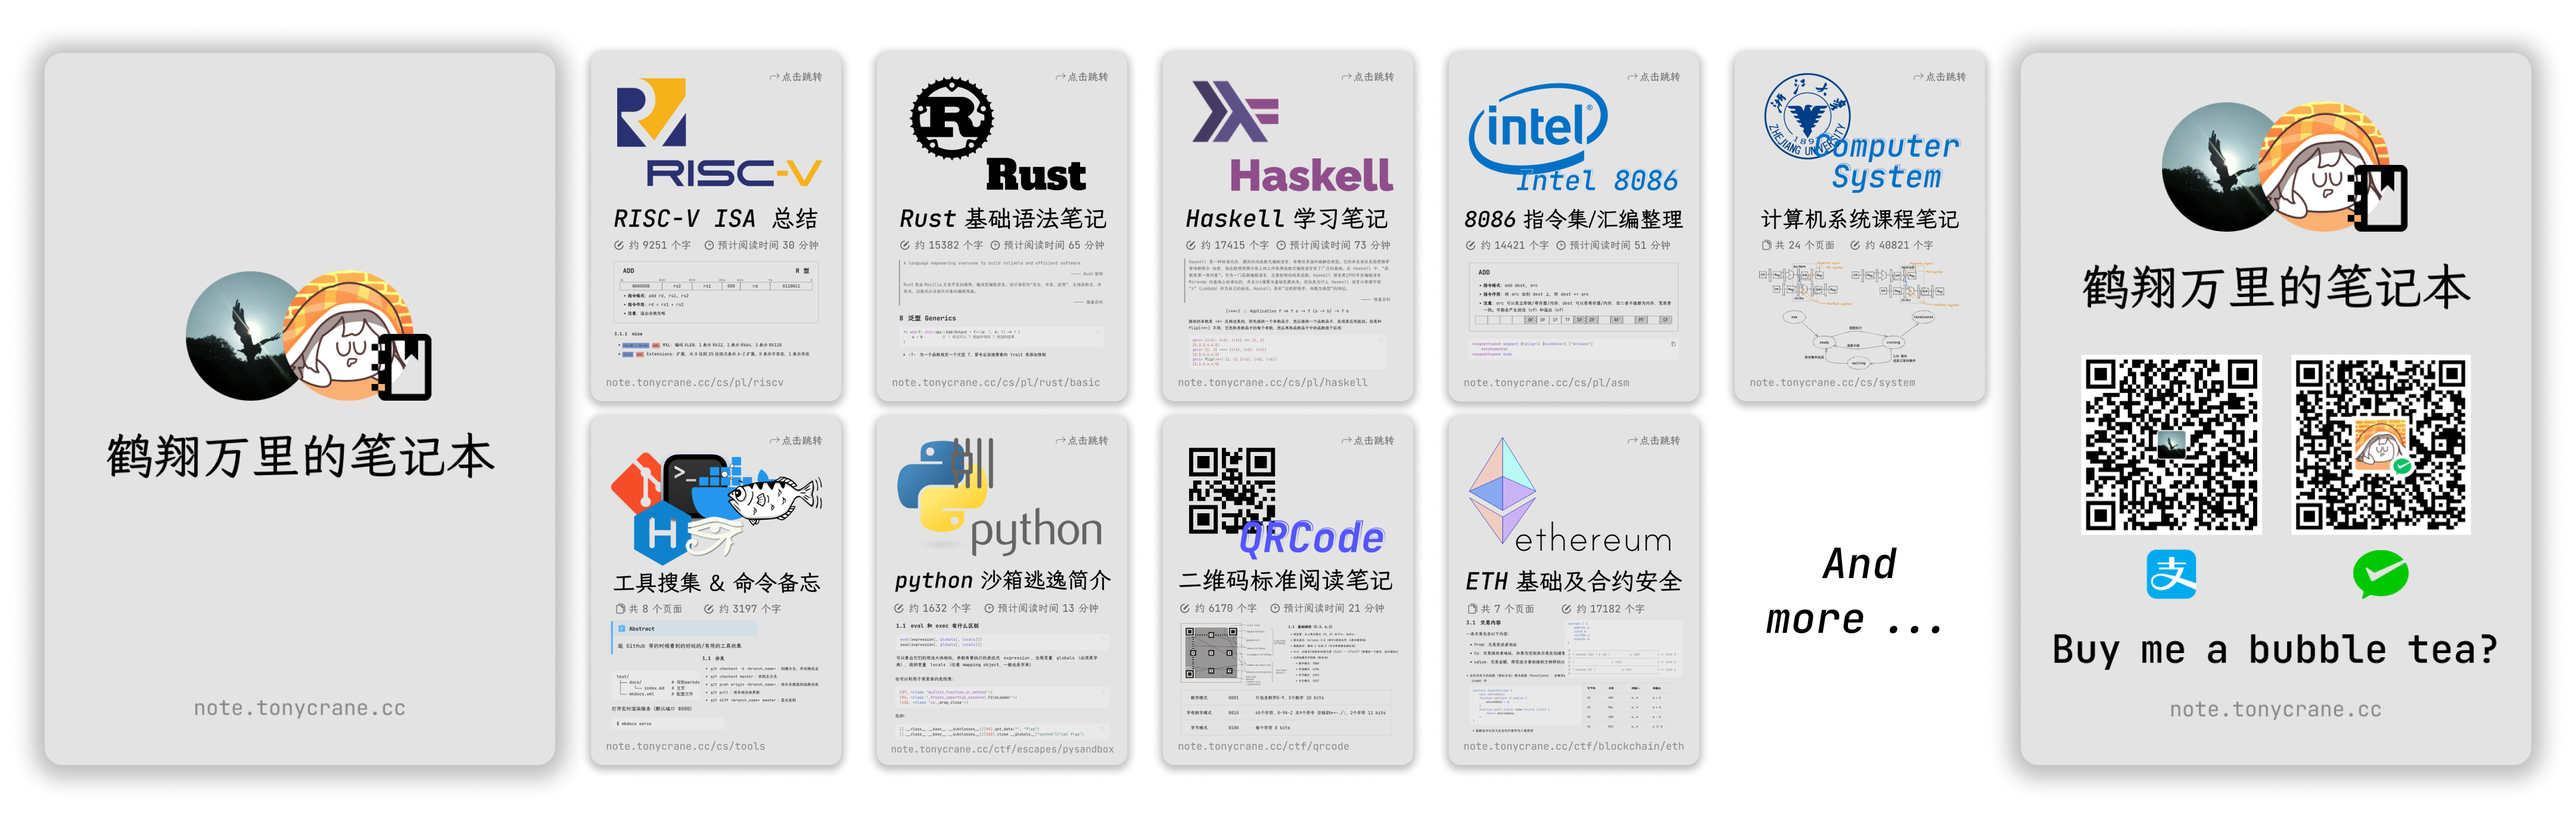
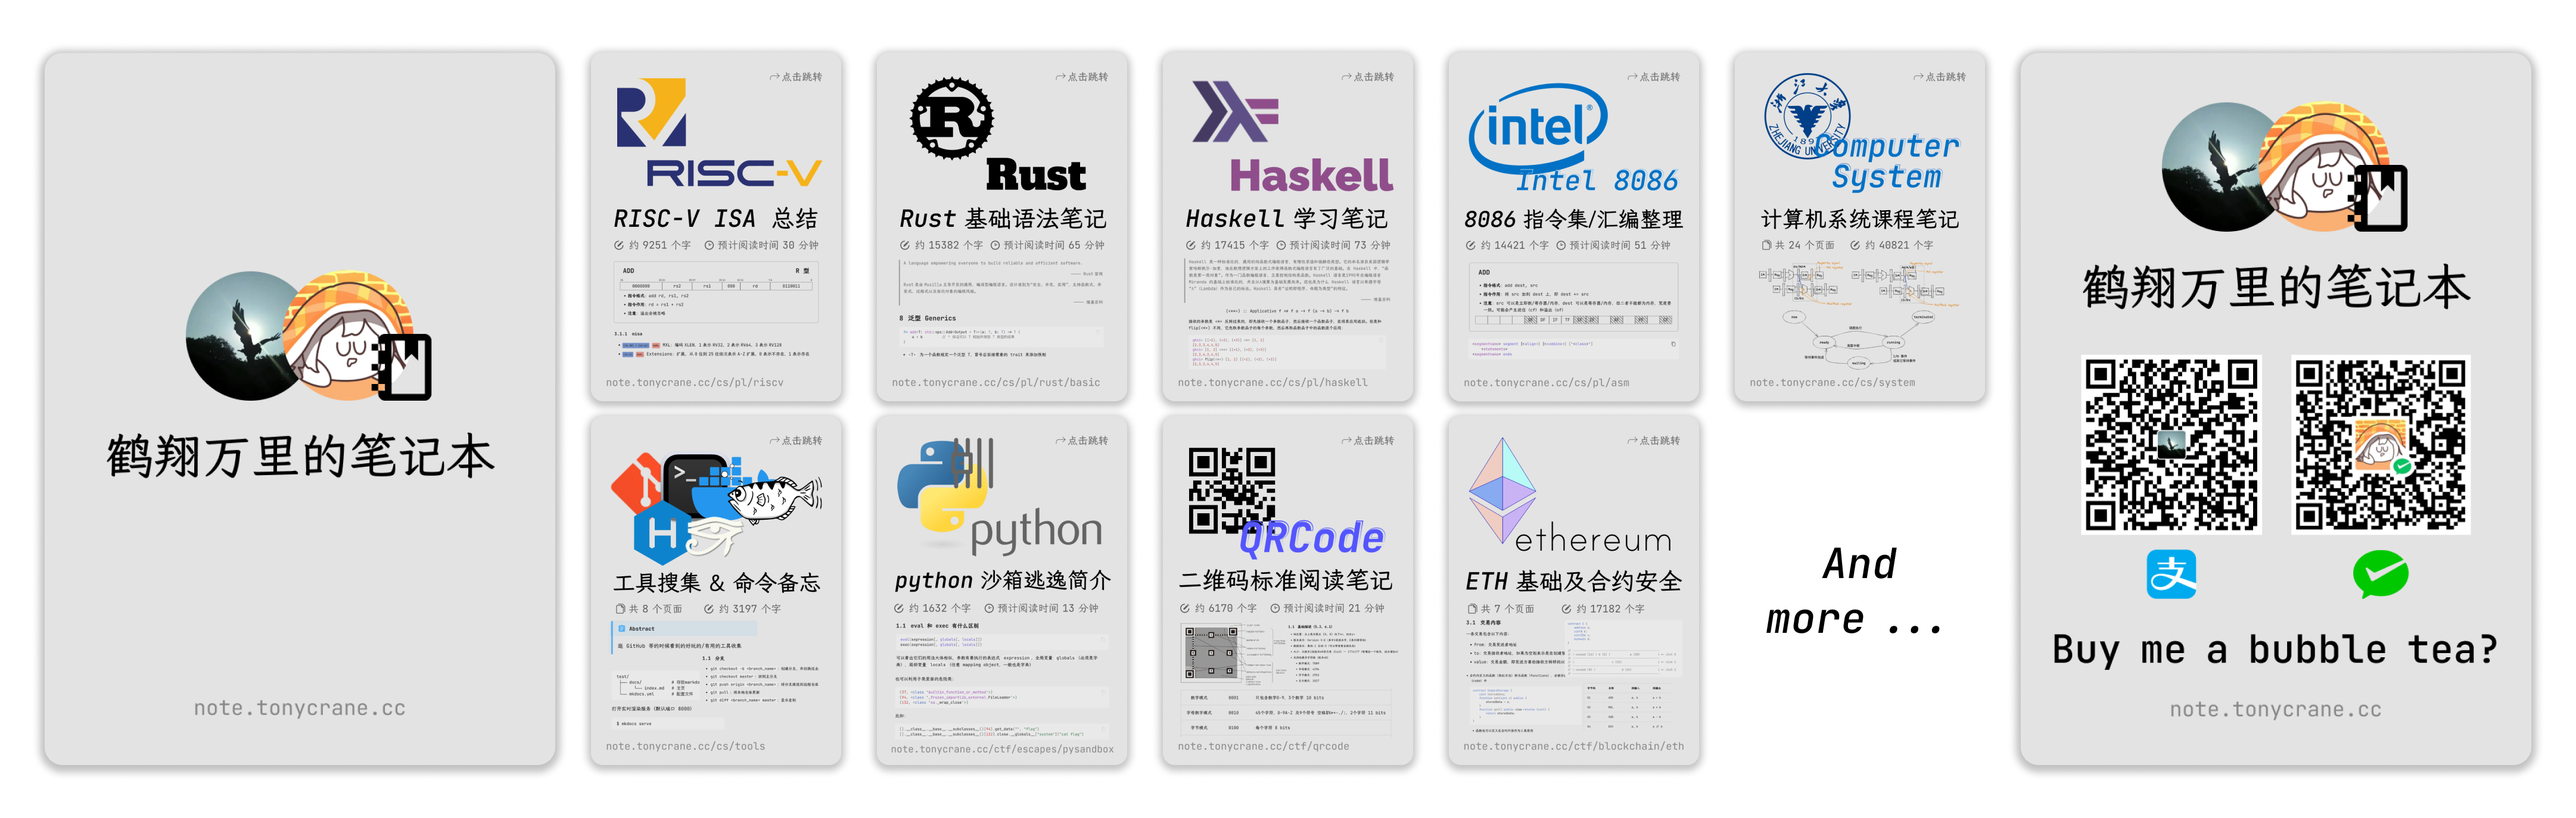
docs: update README

diff --git a/README.md b/README.md
@@ -1,9 +1,11 @@
 # TonyCrane's Notebook<br/>鹤翔万里的笔记本
 
-<picture>
-  <source media="(prefers-color-scheme: dark)" srcset="docs/assets/github/github-dark.png">
-  <img alt="Banner" src="docs/assets/github/github-light.png">
-</picture>
+<a href="https://note.tonycrane.cc/">
+  <picture>
+    <source media="(prefers-color-scheme: dark)" srcset="docs/assets/github/github-dark.png">
+    <img alt="Banner" src="docs/assets/github/github-light.png">
+  </picture>
+</a>
 
 用 mkdocs 搭的一个比较粗糙的在线公开笔记本  
 归档一些计算机、CTF 的知识笔记还有一些比赛的 writeup 以及一些杂乱的内容
